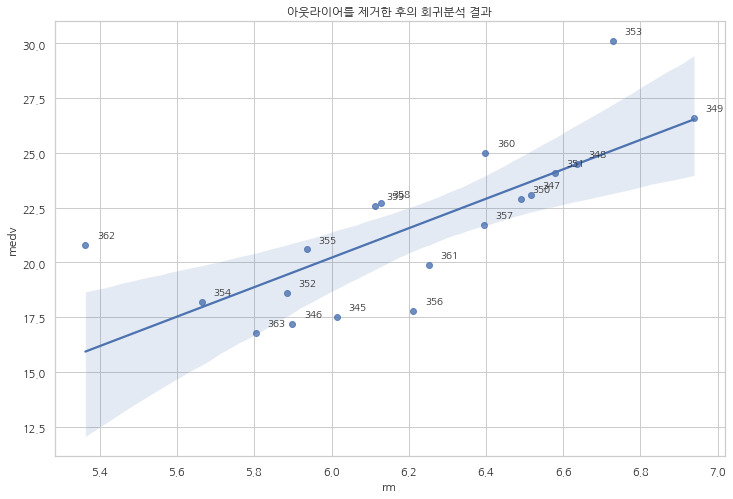
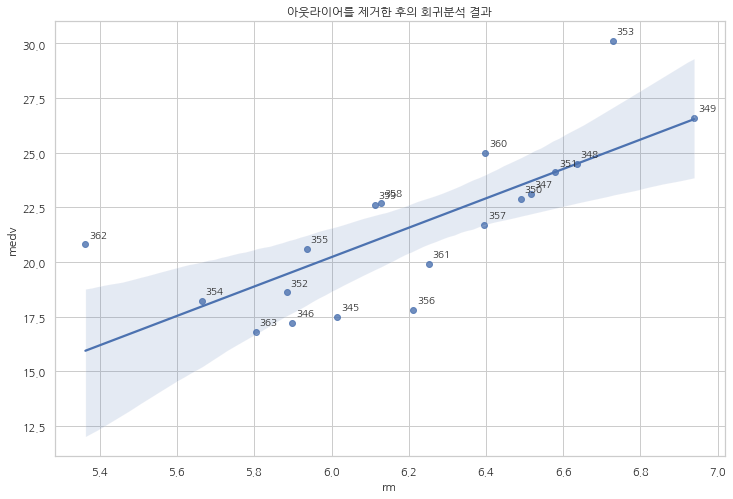
Update documentation

diff --git a/ch03/03_09.html b/ch03/03_09.html
@@ -494,7 +494,7 @@ title="Print to PDF"
  </li>
  <li class="toc-h2 nav-item toc-entry">
   <a class="reference internal nav-link" href="#id4">
-   3.9.3. 아웃라이어
+   3.9.3. 아웃라이어 검출
   </a>
  </li>
  <li class="toc-h2 nav-item toc-entry">
@@ -533,7 +533,7 @@ title="Print to PDF"
  </li>
  <li class="toc-h2 nav-item toc-entry">
   <a class="reference internal nav-link" href="#id4">
-   3.9.3. 아웃라이어
+   3.9.3. 아웃라이어 검출
   </a>
  </li>
  <li class="toc-h2 nav-item toc-entry">
@@ -1021,7 +1021,7 @@ t_i = \dfrac{y_i - \hat{y}_{(i)}}{\hat{\sigma}_{(i)}}
 </div>
 </section>
 <section id="id4">
-<h2><span class="section-number">3.9.3. </span>아웃라이어<a class="headerlink" href="#id4" title="Permalink to this headline">#</a></h2>
+<h2><span class="section-number">3.9.3. </span>아웃라이어 검출<a class="headerlink" href="#id4" title="Permalink to this headline">#</a></h2>
 <p><b>아웃라이어(outlier)</b>는 회귀분석모형으로 예측한 값과 원 데이터 간의 오차 즉, 잔차가 큰 데이터를 말한다. 보통 데이터의 측정/입력 단계 혹은 처리/관리 단계에서 여러가지 실수로 인해 아웃라이어가 발생하는 경우가 많다. 예를 들어 수동으로 데이터를 입력하는 경우에 오타가 발생하던가 입력 데이터의 순서를 바꾸어 넣어서 이런 잘못된 데이터가 발생하는 경우가 흔하다. 따라서  아웃라이어를 검출하여 해당 데이터가 실수로 인해 잘못된 데이터인지 아닌지를 검토해야 한다.</p>
 <p>statsmodels 패키지로 선형회귀분석을 실시하여 얻은 분석결과 객체는 아웃라이어를 검출하기 위한 <code class="docutils literal notranslate"><span class="pre">outlier_test</span></code> 메서드를 제공한다. 이 메서드는 아웃라이어 검정(outlier test)을 하는 메서드로 외부 스튜던트화 잔차의 확률분포를 이용하여 주어진 유의수준(지정하지 않은 경우 디폴트 5%) 미만인 데이터를 찾아낸다. 이 때 일반 유의확률이 아닌 <b>본페로니 수정(Bonferroni correction)</b>을 거친 유의확률을 사용해야 한다.</p>
 <p><code class="docutils literal notranslate"><span class="pre">outlier_test</span></code> 메서드를 호출하면 다음과 같은 데이터프레임을 출력한다. 결과 데이터프레임에서 <code class="docutils literal notranslate"><span class="pre">bonf(p)</span></code> 열이 본페로니 수정 유의확률이다. 아웃라이어 검정은 “아웃라이어가 아니다”라는 귀무가설을 사용하므로 유의확률이 작은 데이터가 아웃라이어가 된다. 364번 데이터의 유의확률이 5% 미만이므로 이 데이터가 아웃라이어가 된다.</p>
@@ -1186,7 +1186,7 @@ t_i = \dfrac{y_i - \hat{y}_{(i)}}{\hat{\sigma}_{(i)}}
 <div class="highlight-ipython3 notranslate"><div class="highlight"><pre><span></span><span class="n">plt</span><span class="o">.</span><span class="n">figure</span><span class="p">(</span><span class="n">figsize</span><span class="o">=</span><span class="p">(</span><span class="mi">12</span><span class="p">,</span> <span class="mi">8</span><span class="p">))</span>
 <span class="n">sns</span><span class="o">.</span><span class="n">regplot</span><span class="p">(</span><span class="n">x</span><span class="o">=</span><span class="s2">&quot;rm&quot;</span><span class="p">,</span> <span class="n">y</span><span class="o">=</span><span class="s2">&quot;medv&quot;</span><span class="p">,</span> <span class="n">data</span><span class="o">=</span><span class="n">boston20max</span><span class="p">)</span>
 <span class="k">for</span> <span class="n">i</span><span class="p">,</span> <span class="n">r</span> <span class="ow">in</span> <span class="n">boston20max</span><span class="o">.</span><span class="n">iterrows</span><span class="p">():</span>
-    <span class="n">plt</span><span class="o">.</span><span class="n">annotate</span><span class="p">(</span><span class="n">i</span><span class="p">,</span> <span class="p">(</span><span class="n">r</span><span class="o">.</span><span class="n">rm</span> <span class="o">+</span> <span class="mf">0.03</span><span class="p">,</span> <span class="n">r</span><span class="o">.</span><span class="n">medv</span> <span class="o">+</span> <span class="mf">0.3</span><span class="p">))</span>
+    <span class="n">plt</span><span class="o">.</span><span class="n">annotate</span><span class="p">(</span><span class="n">i</span><span class="p">,</span> <span class="p">(</span><span class="n">r</span><span class="o">.</span><span class="n">rm</span> <span class="o">+</span> <span class="mf">0.01</span><span class="p">,</span> <span class="n">r</span><span class="o">.</span><span class="n">medv</span> <span class="o">+</span> <span class="mf">0.3</span><span class="p">))</span>
 <span class="n">plt</span><span class="o">.</span><span class="n">title</span><span class="p">(</span><span class="s2">&quot;아웃라이어를 제거한 후의 회귀분석 결과&quot;</span><span class="p">)</span>
 <span class="n">plt</span><span class="o">.</span><span class="n">show</span><span class="p">()</span>
 </pre></div>
